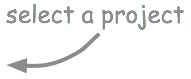
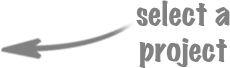
switched select project helper

diff --git a/apps/tasks/english.lproj/default_theme/tasks_pane.css b/apps/tasks/english.lproj/default_theme/tasks_pane.css
@@ -39,10 +39,7 @@
 }
 
 .select-project-helper {
-  background: static_url('images/select-project-helper.png') no-repeat 0px 0px;
-/*
-// TODO: [MG] Beta: replace select-projects-helper image to match others
-*/
+  background: static_url('images/select-project-helper.png') no-repeat 0px 5px;
 }
 
 /*-----------------------------------------------------------------
